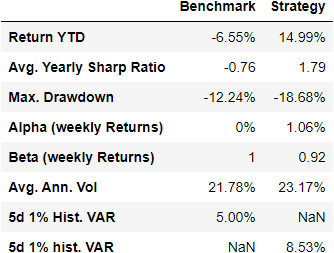
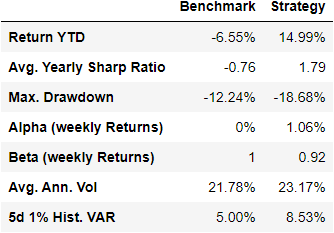
slight modifications

diff --git a/calculations.py b/calculations.py
@@ -485,7 +485,7 @@ ratios_strategy_out = {"Return YTD": nday_ret(strategy_out, TR = True),
                 "Alpha (weekly Returns)": alpha_beta(strategy_out, BM_out, "1W", rf_period = 0, param = "alpha"),
                 "Beta (weekly Returns)": round(alpha_beta(strategy_out, BM_out, "1W", rf_period = 0, param = "beta"),2),
                 "Avg. Ann. Vol": yearly_vol(strategy_out, days = 250),
-                "5d 1% hist. VAR": NDAYVar(strategy_out, N = 5)}
+                "5d 1% Hist. VAR": NDAYVar(strategy_out, N = 5)}
 
 risk_factors_in = pd.DataFrame({"Benchmark": ratios_BM_in, "Strategy": ratios_strategy_in})
 risk_factors_out = pd.DataFrame({"Benchmark": ratios_BM_out, "Strategy": ratios_strategy_out})
